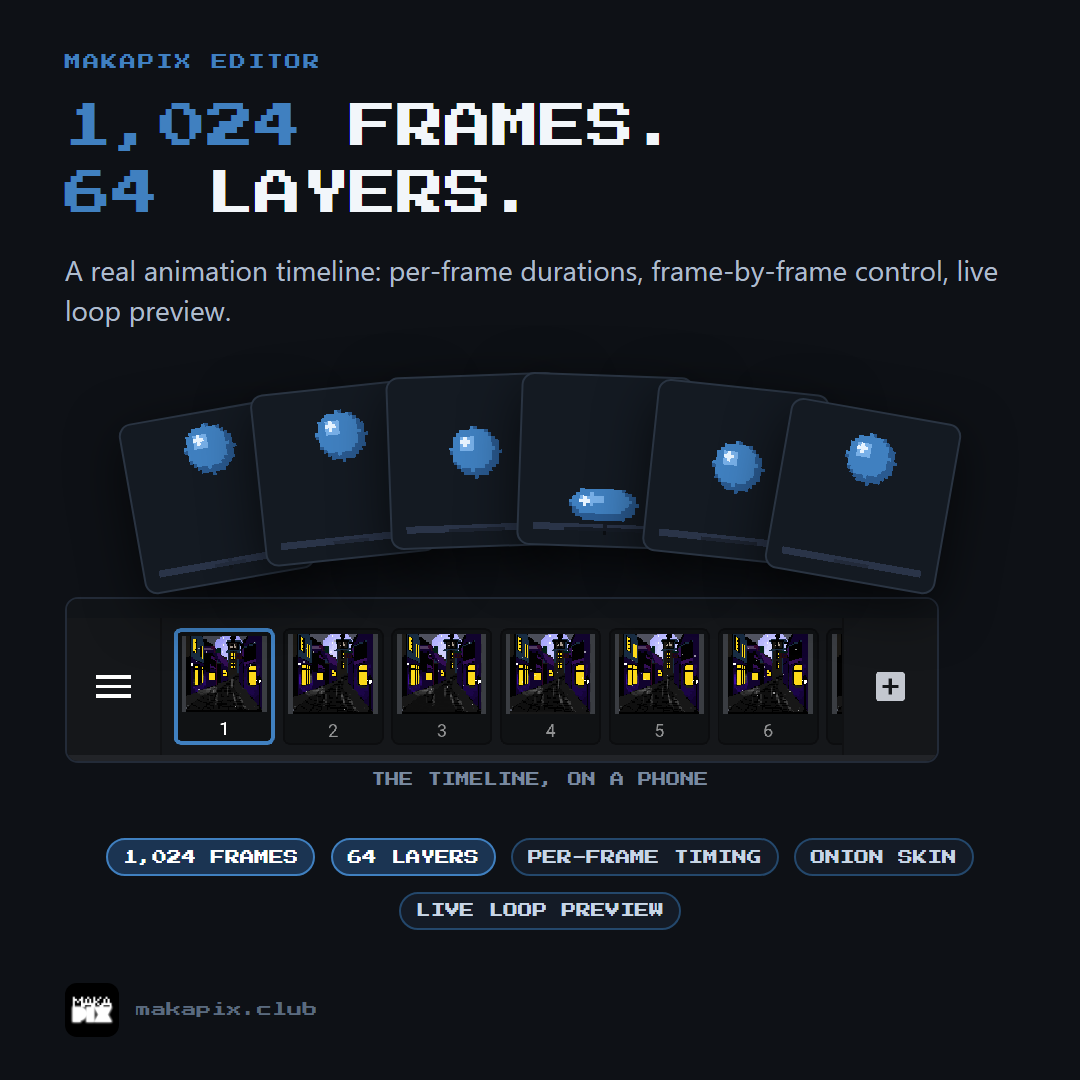
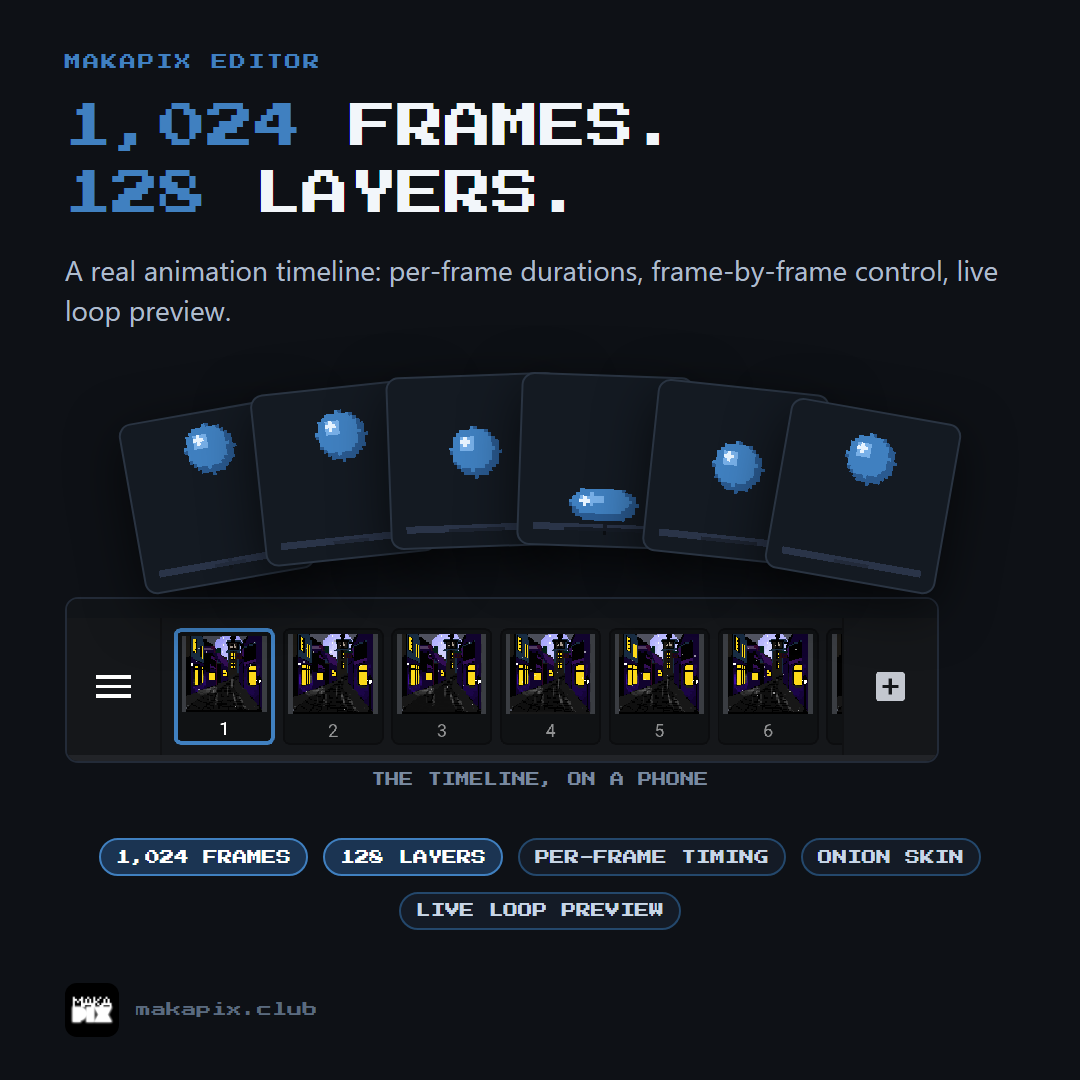
marketing: "1,024 frames. 128 layers." — animation slide headline and the hero/animation chip tickers re-rendered (ADR 0032)
build.py copy 64 -> 128 in three places; full pipeline rebuild (headless Chrome + Pillow). The render is
deterministic: only the hero and animation slides changed, across all five formats. Store upload rides
the next release.

Claude-Session: https://claude.ai/code/session_01TuQ578n7gfDoBh2XvDJobF

Changed region(s): [[0.0917, 0.7639, 0.6111, 0.825], [0.0611, 0.1528, 0.5194, 0.2139], [0.6417, 0.7639, 0.9167, 0.825]]

diff --git a/docs/marketing/src/build.py b/docs/marketing/src/build.py
@@ -295,7 +295,7 @@ def slide_hero(orient):
     phone_crop = shot_crop("hero_senna_app", "editor_hero_app")
     wall = "".join(tile(n, {"portrait": 17.8, "square": 11.2, "landscape": 12}[orient])
                    for n in ["daydream", "mr_tritium", "seaside_city", "cozy_blizzard"])
-    tick = chips([("512&times;512", False), ("1,024 FRAMES", True), ("64 LAYERS", True),
+    tick = chips([("512&times;512", False), ("1,024 FRAMES", True), ("128 LAYERS", True),
                   ("10 BLEND MODES", False), ("TIMELAPSE EXPORT", False)])
     if orient == "landscape":
         return f"""
@@ -385,7 +385,7 @@ def slide_animation(orient):
     tl_crop = shot_crop("timeline_cozy_row", "timeline_row")
     tl = (f'<img class="pix uistrip" src="{art(f"crops/{tl_crop}.png")}">'
           '<div class="caption">THE TIMELINE, ON A PHONE</div>')
-    tick = chips([("1,024 FRAMES", True), ("64 LAYERS", True),
+    tick = chips([("1,024 FRAMES", True), ("128 LAYERS", True),
                   ("PER-FRAME TIMING", False), ("ONION SKIN", False),
                   ("LIVE LOOP PREVIEW", False)])
     body = extra + f'<div class="fan">{cards}</div>'
@@ -657,7 +657,7 @@ SLIDES = {
                "Every stroke is recorded. Scrub the replay and export a timelapse as MP4, GIF, or WebP.",
                slide_replay),
     "animation": ("MAKAPIX EDITOR",
-                  '<span class="a">1,024</span> FRAMES.<br><span class="a">64</span> LAYERS.',
+                  '<span class="a">1,024</span> FRAMES.<br><span class="a">128</span> LAYERS.',
                   "A real animation timeline: per-frame durations, frame-by-frame control, live loop preview.",
                   slide_animation),
     "paint": ("MAKAPIX EDITOR",
